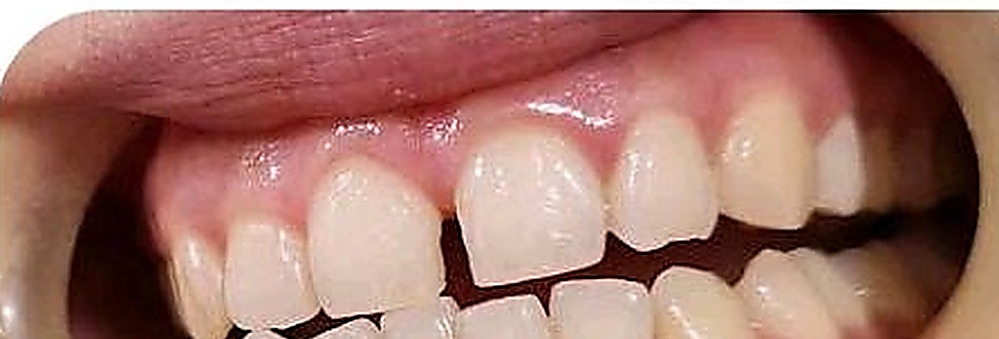
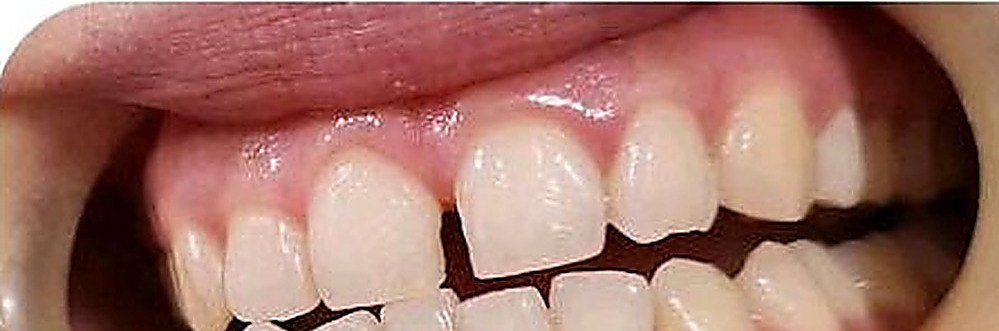
Add files via upload

diff --git a/assets/js/app.js b/assets/js/app.js
@@ -26,16 +26,16 @@
   ];
 
   var GALLERY = [
-    { src: 'assets/img/facility-chair.jpg', alt: 'Dental treatment room with modern chair, instrument tray and overhead monitor', cls: '' },
     { src: 'assets/img/smile-result.jpg', alt: 'Patient smiling after dental bonding treatment', cls: 'wide' },
+    { src: 'assets/img/facility-chair.jpg', alt: 'Dental treatment room with modern chair, instrument tray and overhead monitor', cls: '' },
     { src: 'assets/img/patient-blue.jpg', alt: 'Patient standing by the clinic door with the Cebu Dental Care Center sign', cls: '' },
-    { src: 'assets/img/teeth-before.jpg', alt: 'Front teeth before bonding, showing a gap', cls: '' },
-    { src: 'assets/img/teeth-after.jpg', alt: 'Front teeth after bonding, gap closed', cls: '' },
+    { src: 'assets/img/teeth-before.jpg', alt: 'Front teeth before bonding, showing a gap', cls: 'wide' },
+    { src: 'assets/img/sign-cerec.jpg', alt: 'CEREC single visit dentistry sign on the clinic door', cls: 'tall' },
     { src: 'assets/img/patient-chair.jpg', alt: 'Patient seated in the dental chair with the dentist in purple scrubs', cls: '' },
-    { src: 'assets/img/family-group.jpg', alt: 'Three patients smiling in front of the clinic glass doors', cls: 'wide' },
-    { src: 'assets/img/patient-dentist-1.jpg', alt: 'Patient posing with the dentist beside the clinic sign', cls: '' },
-    { src: 'assets/img/patient-dentist-2.jpg', alt: 'Patient with the dental team in front of the CEREC sign', cls: '' },
-    { src: 'assets/img/sign-cerec.jpg', alt: 'CEREC single visit dentistry sign on the clinic door', cls: '' }
+    { src: 'assets/img/teeth-after.jpg', alt: 'Front teeth after bonding, gap closed', cls: 'wide' },
+    { src: 'assets/img/family-group.jpg', alt: 'Three patients smiling in front of the clinic glass doors', cls: '' },
+    { src: 'assets/img/patient-dentist-1.jpg', alt: 'Patient posing with the dentist beside the clinic sign', cls: 'wide' },
+    { src: 'assets/img/patient-dentist-2.jpg', alt: 'Patient with the dental team in front of the CEREC sign', cls: 'wide' }
   ];
 
   var REVIEWS = [
@@ -228,7 +228,7 @@
   var lbIndex = 0;
   function renderGallery() {
     $('#galGrid').innerHTML = GALLERY.map(function (g, i) {
-      return '<button class="' + g.cls + '" data-i="' + i + '" aria-label="Open photo: ' + g.alt + '">' +
+      return '<button class="' + g.cls + '" style="--src:url(' + new URL(g.src, document.baseURI).href + ')" data-i="' + i + '" aria-label="Open photo: ' + g.alt + '">' +
         '<img src="' + g.src + '" alt="' + g.alt + '" loading="lazy"></button>';
     }).join('');
     $$('#galGrid button').forEach(function (b) {

diff --git a/assets/css/style_d.css b/assets/css/style_d.css
@@ -224,3 +224,28 @@ html:not([data-theme="dark"]) .err-msg.on{color:#b91c1c}
 .nv-k{font-size:.68rem;letter-spacing:.12em;text-transform:uppercase;color:var(--muted);font-weight:800}
 .nv-t{font-weight:800;margin-top:2px}
 .nv-m{font-size:.84rem;color:var(--ink-soft);margin-top:2px}
+
+/* ---- photos always fit their boxes: whole picture shown, soft blurred fill behind ---- */
+.gal{grid-template-columns:repeat(4,1fr)}
+.gal button,.fit{background:#0a0907}
+.gal button::before,.fit::before{content:"";position:absolute;inset:-24px;background:var(--src) center/cover no-repeat;filter:blur(20px) brightness(.62) saturate(1.1);transform:scale(1.1)}
+.gal button img,.fit img{object-fit:contain;object-position:center}
+.fit{position:relative;overflow:hidden}
+.fit img{position:absolute;inset:0;width:100%;height:100%}
+.fit .doc-badge{z-index:2}
+.gal .wide{grid-column:span 2;aspect-ratio:2/1}
+.gal .tall{grid-row:span 2;aspect-ratio:auto}
+.gal button img{transition:none}
+@media (max-width:599px){
+  .gal{grid-template-columns:repeat(2,1fr);gap:10px}
+  .gal .tall{grid-row:span 2;aspect-ratio:auto}
+}
+@media (min-width:600px) and (max-width:1080px){ .gal{grid-template-columns:repeat(4,1fr)} }
+/* other photo boxes sized to the picture */
+.tech-media{aspect-ratio:3/4;max-width:480px;margin-inline:auto}
+.tech-media img{object-fit:cover;object-position:center}
+.hero-shot{aspect-ratio:4/5}
+@media (max-width:760px){ .hero-shot{aspect-ratio:4/5} .tech-media{max-width:none} }
+.ba-wrap{aspect-ratio:3/1}
+@media (max-width:760px){ .ba-wrap{aspect-ratio:2.2/1} }
+.fc-patients img{object-position:center 25%}

diff --git a/index.html b/index.html
@@ -300,7 +300,7 @@
         </div>
       </article>
       <article class="doc reveal">
-        <div class="doc-img">
+        <div class="doc-img fit" style="--src:url(/assets/img/patient-dentist-2.jpg)">
           <img src="assets/img/patient-dentist-2.jpg" alt="A patient photographed with the dental team in front of the clinic sign reading Cebu Dental Care Center and CEREC single visit dentistry" loading="lazy">
           <span class="doc-badge">Chair-side team</span>
         </div>
